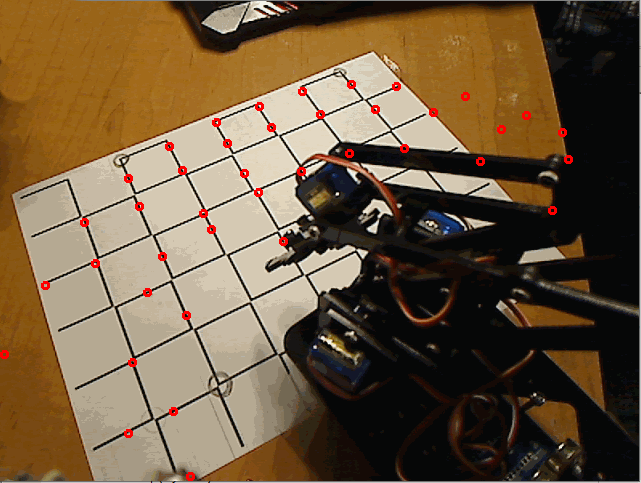
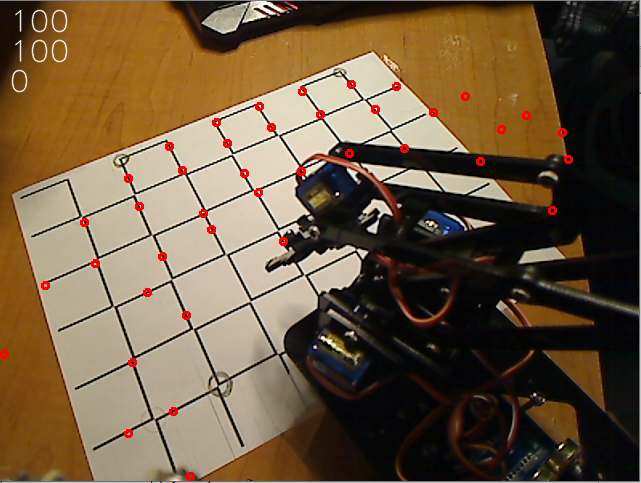
Add files via upload

Changed region(s): [[0.0, 0.0, 0.1248, 0.2174]]

diff --git a/test_data2.py b/test_data2.py
@@ -37,15 +37,10 @@ def drawPoints(img,X,Y):
 def loadData():
     inf = open('datafile.dat', 'rb')
     a = marshal.load(inf)
-    print(a)
     b = marshal.load(inf)
-    print(b)
     c = marshal.load(inf)
-    print(c)
     d = marshal.load(inf)
-    print(d)
     e = marshal.load(inf)
-    print(e)
     inf.close(  )   
     return a,b,c,d,e
 
@@ -62,7 +57,7 @@ def main(argv=None):
     X,Y,B,C,D=loadData()
 
     windowName = 'Drawing'
-    img1= cv2.imread('ps1.png')
+    img1= cv2.imread('ps2.png')
     cv2.namedWindow(windowName)
     cv2.setMouseCallback(windowName, MouseEventCallback)
     

diff --git a/sci_grid_demo.py b/sci_grid_demo.py
@@ -1,0 +1,13 @@
+# -*- coding: utf-8 -*-
+"""
+Created on Tue May  7 19:16:43 2019
+
+@author: p
+"""
+import numpy as np
+from scipy.interpolate import griddata
+points = np.array([[1,1],[1,2],[2,2],[2,1]])
+values = np.array([1,4,5,2])
+xi=([1.2,1.5])
+result=griddata(points, values, xi, method='linear')
+print("Value of interpolated function at",xi,"=",*result)

diff --git a/TestPointOnMesh.py b/TestPointOnMesh.py
@@ -28,7 +28,7 @@ def main(argv=None):
     Za = []
     pointlist=np.stack((X1.flatten(),Y1.flatten(),Z1.flatten()),-1)
     aMesh    =np.stack(( X.flatten(), Y.flatten(), Z.flatten()),-1)
-
+    print(aMesh)
     for point in pointlist :
         Za.append(PointOnMesh.ApproximatePointOnMesh(aMesh,point))
     Zo=np.asarray(Za)
